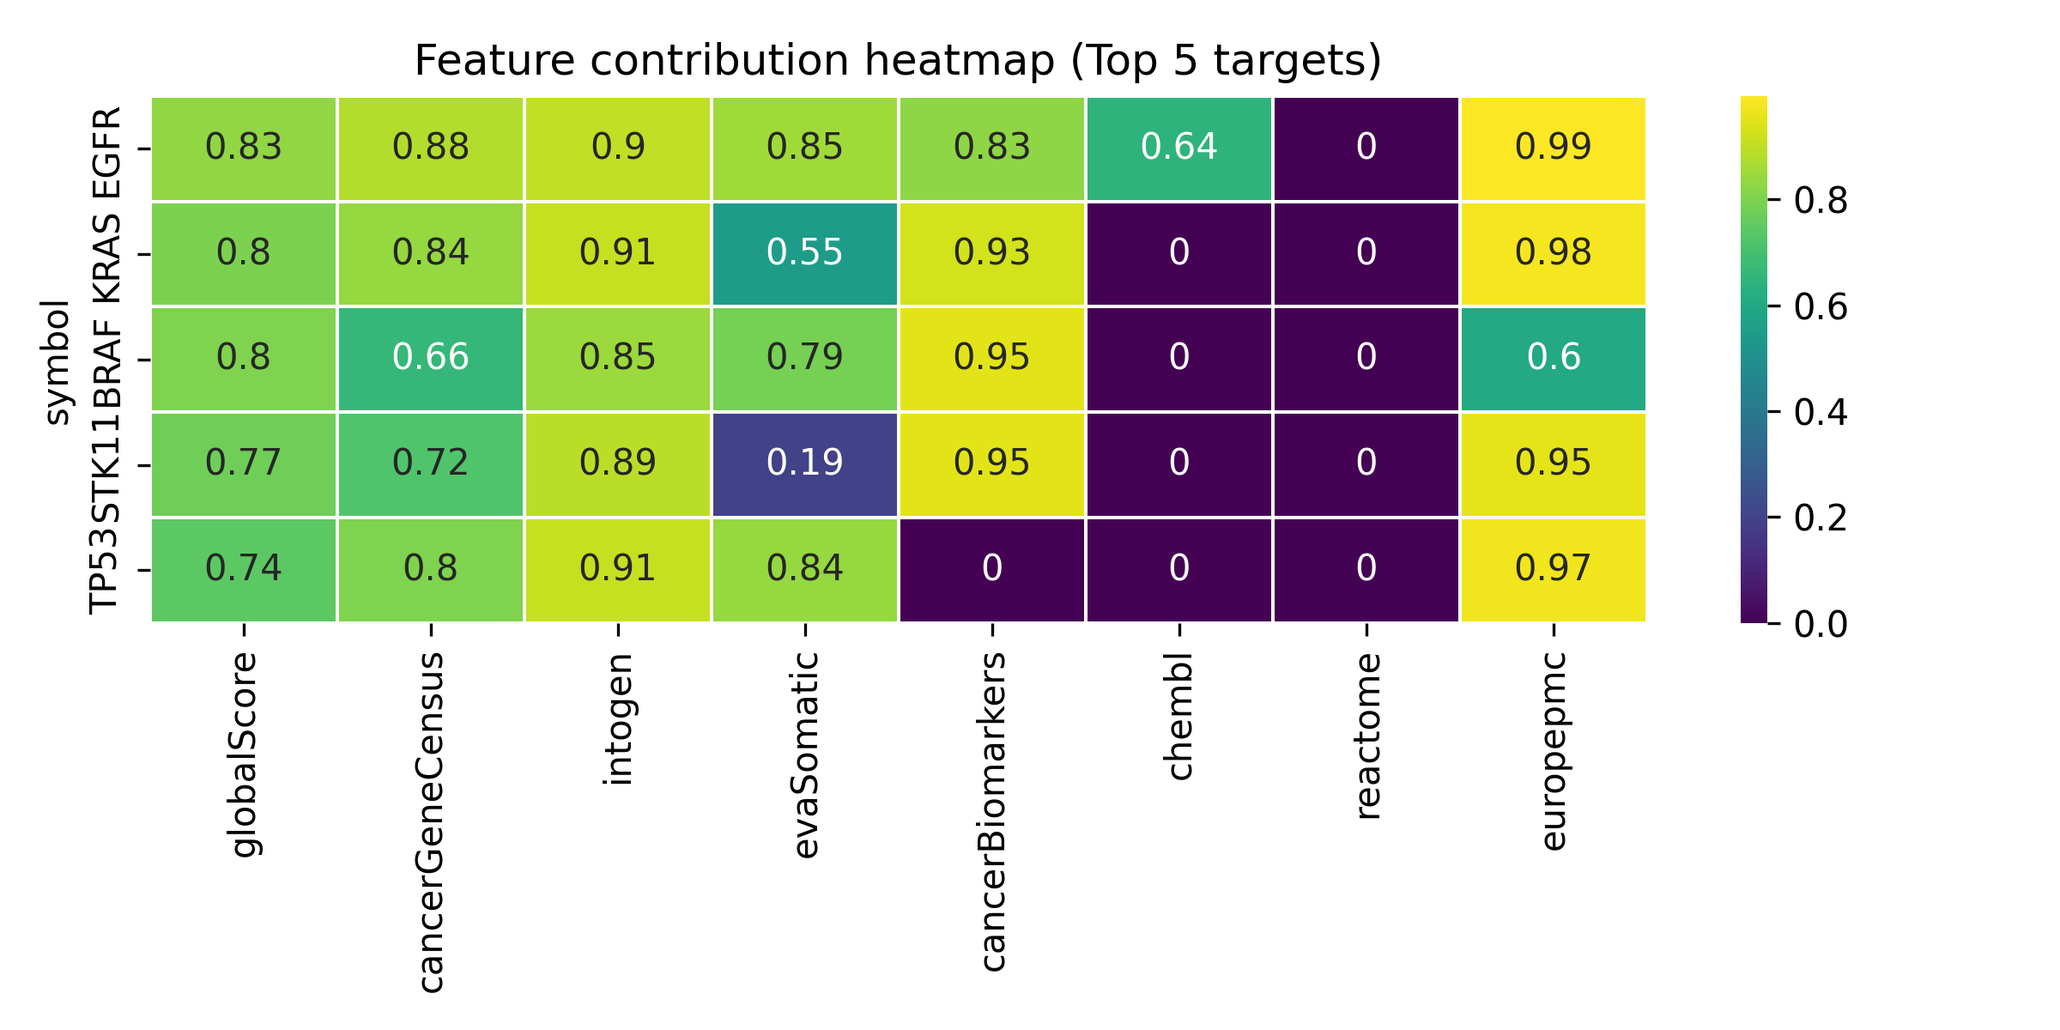
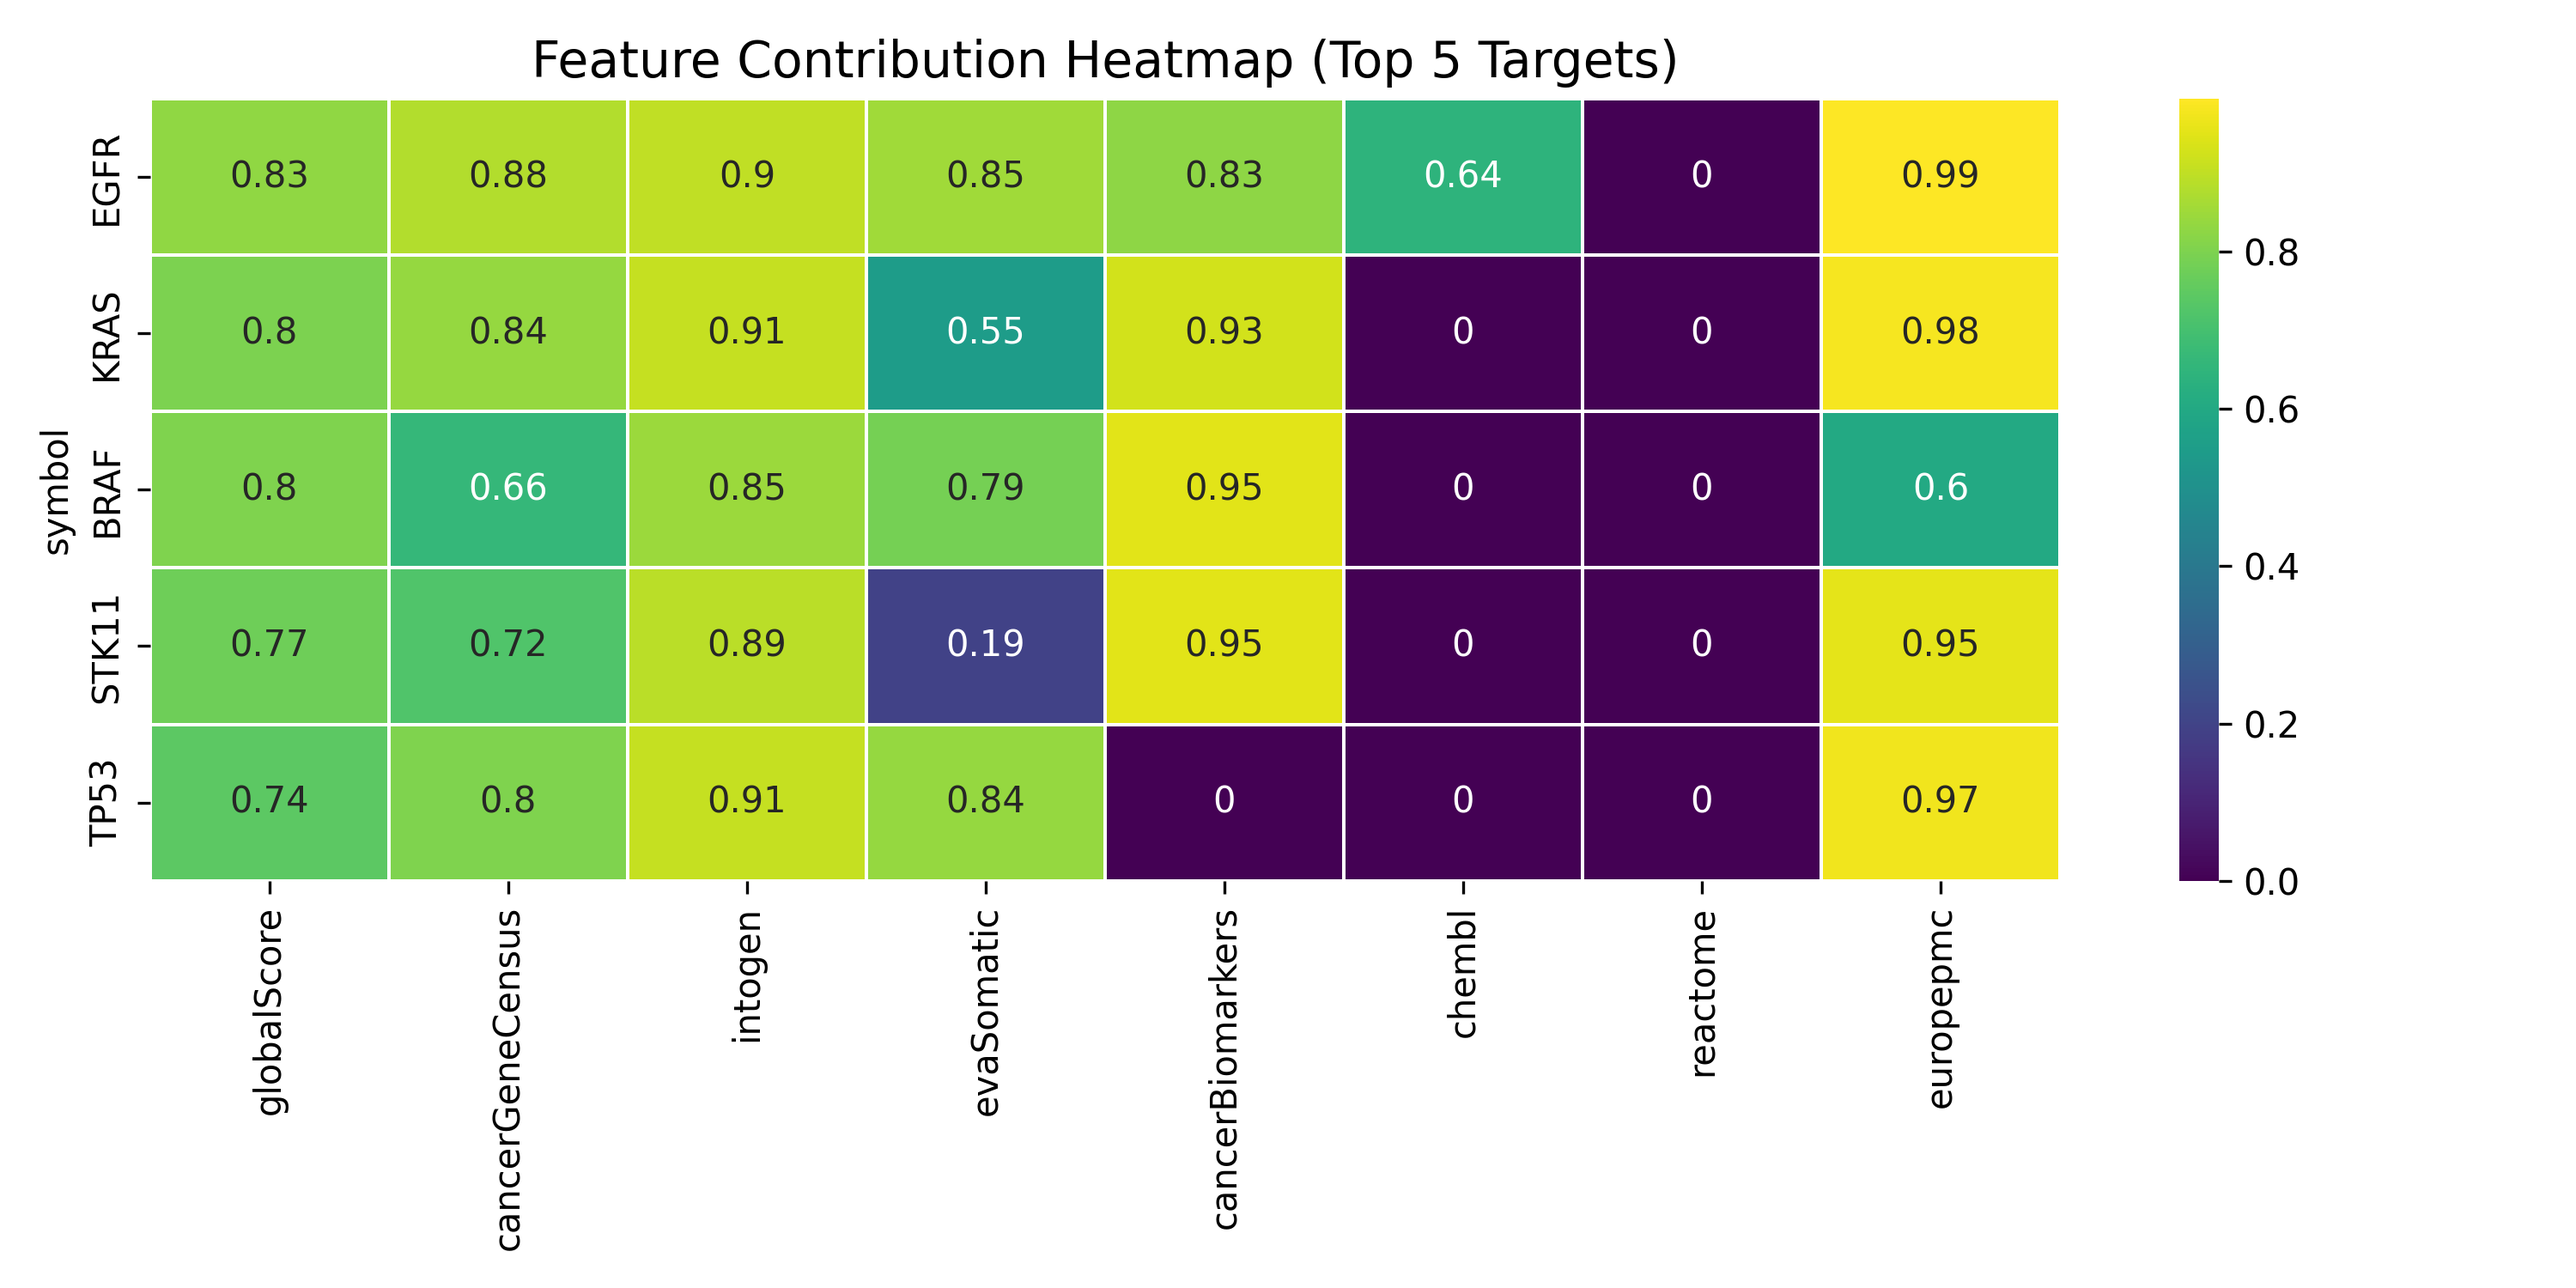
Finalized task1_2 with automated directory handling

Changed region(s): [[0.0, 0.0308, 0.8125, 0.9867], [0.8438, 0.0617, 0.9062, 0.7092]]

diff --git a/task1_2/code/task1_code.py b/task1_2/code/task1_code.py
@@ -1,33 +1,37 @@
-# lung adenocarcinoma data
-
-# OPEN TARGET
-
 import pandas as pd
 import numpy as np
-df = pd.read_csv("task1_2/task1_input/openTarget_dataset.tsv", na_values=["No data"], sep='\t')
-df = df[
-    [
-        "symbol",
-        "globalScore",
-        "cancerGeneCensus",
-        "intogen",
-        "evaSomatic",
-        "cancerBiomarkers",
-        "chembl",
-        "reactome",
-        "europepmc"
-    ]
+import matplotlib.pyplot as plt
+import seaborn as sns
+import os
+
+# --- 1. SETUP PATHS ---
+# This ensures the code knows where to look regardless of who runs it
+INPUT_FILE = "../task1_input/openTarget_dataset.tsv"
+OUTPUT_DIR = "../output"
+
+# Create output directory if it doesn't exist
+if not os.path.exists(OUTPUT_DIR):
+    os.makedirs(OUTPUT_DIR)
+
+# --- 2. DATA LOADING & CLEANING ---
+df = pd.read_csv(INPUT_FILE, na_values=["No data"], sep='\t')
+
+# Selecting specific columns for analysis
+cols_to_keep = [
+    "symbol", "globalScore", "cancerGeneCensus", "intogen", 
+    "evaSomatic", "cancerBiomarkers", "chembl", "reactome", "europepmc"
 ]
-df = df.fillna(0);
+df = df[cols_to_keep]
+df = df.fillna(0)
 
-# filter strong disease-associated targets
+# Filter strong disease-associated targets and sort
 df = df[df["globalScore"] >= 0.2]
-
-# sort by association strength
 df = df.sort_values(by="globalScore", ascending=False)
 
-# save step  output
-df.to_csv("task1_2/output/SelectedTargets.csv", index=False)
+# Save intermediate filtered data
+df.to_csv(f"{OUTPUT_DIR}/SelectedTargets.csv", index=False)
+
+# --- 3. PRIORITY SCORING ---
 weights = {
     "globalScore": 0.30,
     "cancerGeneCensus": 0.15,
@@ -39,7 +43,6 @@ weights = {
     "europepmc": 0.05
 }
 
-# calculate priority score
 df["priorityScore"] = (
     df["globalScore"] * weights["globalScore"] +
     df["cancerGeneCensus"] * weights["cancerGeneCensus"] +
@@ -51,52 +54,35 @@ df["priorityScore"] = (
     df["europepmc"] * weights["europepmc"]
 )
 
-# rank targets
+# Rank and save final CSV
 df = df.sort_values("priorityScore", ascending=False)
+df.to_csv(f"{OUTPUT_DIR}/RankedTargets.csv", index=False)
 
-# save ranked targets
-df.to_csv("task1_2/output/RankedTargets.csv", index=False)
-import matplotlib.pyplot as plt
-import seaborn as sns
-import pandas as pd
-
-df = pd.read_csv("task1_2/output/RankedTargets.csv")
-
+# --- 4. VISUALIZATION: TOP 10 BAR CHART ---
 top10 = df.head(10)
-
-plt.figure(figsize=(8,5))
-plt.bar(top10["symbol"], top10["priorityScore"])
-plt.xlabel("Target genes")
-plt.ylabel("Priority score")
-plt.title("Top 10 prioritized cancer targets")
+plt.figure(figsize=(10, 6))
+plt.bar(top10["symbol"], top10["priorityScore"], color='skyblue', edgecolor='navy')
+plt.xlabel("Target Genes", fontweight='bold')
+plt.ylabel("Priority Score", fontweight='bold')
+plt.title("Top 10 Prioritized Cancer Targets", fontsize=14)
 plt.xticks(rotation=45)
 plt.tight_layout()
-plt.savefig("task1_2/output/top_10_cancer_targets.png", dpi=300)
+plt.savefig(f"{OUTPUT_DIR}/top_10_cancer_targets.png", dpi=300)
 plt.show()
 
-
+# --- 5. VISUALIZATION: FEATURE HEATMAP ---
 features = [
-    "globalScore",
-    "cancerGeneCensus",
-    "intogen",
-    "evaSomatic",
-    "cancerBiomarkers",
-    "chembl",
-    "reactome",
-    "europepmc"
+    "globalScore", "cancerGeneCensus", "intogen", "evaSomatic", 
+    "cancerBiomarkers", "chembl", "reactome", "europepmc"
 ]
-
 top5 = df.head(5)
 heatmap_data = top5.set_index("symbol")[features]
 
-plt.figure(figsize=(8,4))
-sns.heatmap(
-    heatmap_data,
-    annot=True,
-    cmap="viridis",
-    linewidths=0.5
-)
-plt.title("Feature contribution heatmap (Top 5 targets)")
+plt.figure(figsize=(10, 5))
+sns.heatmap(heatmap_data, annot=True, cmap="viridis", linewidths=0.5)
+plt.title("Feature Contribution Heatmap (Top 5 Targets)", fontsize=14)
 plt.tight_layout()
-plt.savefig("task1_2/output/feature_contribution_heatmap.png", dpi=300) 
+plt.savefig(f"{OUTPUT_DIR}/feature_contribution_heatmap.png", dpi=300)
 plt.show()
+
+print(f"Analysis complete. All files saved to: {OUTPUT_DIR}")
